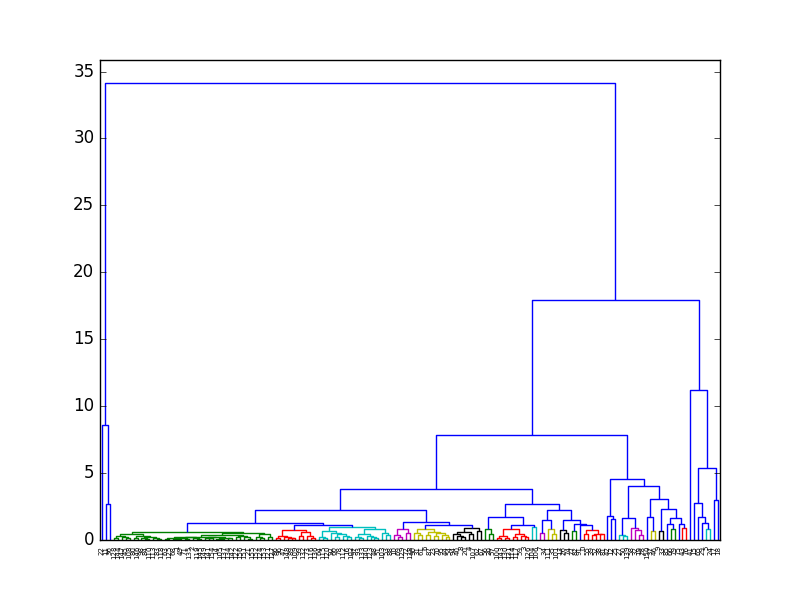
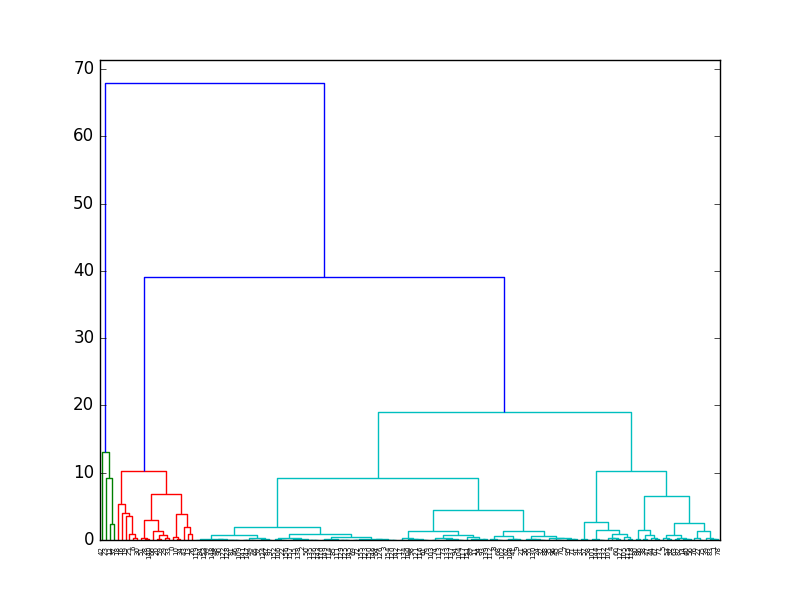
m4 finished. generating csv with cluster, #accidents and mean

diff --git a/Milestone4/src/pca_hierarchical.py b/Milestone4/src/pca_hierarchical.py
@@ -38,8 +38,8 @@ plt.show()
 
 #Plot the zone where the number of clusters is higher
 fig, ax = plt.subplots()
-plt.xlim(-0.5, 1)
-plt.ylim(-0.5, 0.75)
+plt.xlim(-1.1, 0.5)
+plt.ylim(-0.7, 0.4)
 ax.grid(True)
 
 for i in range(len(X_pca)):
@@ -71,13 +71,50 @@ lines = open("out/inc2006features.csv").readlines()
 
 acc_per_zone = []
 
-for i in xrange(len(lines)):
+for i in range(len(lines)):
 	zone = clusters[i]
 	number_accidents = sum(map(int, lines[i].split(";")))
 	acc_per_zone.append((zone, number_accidents))
-	print number_accidents
 
-print
+cluster_1 = []
+cluster_2 = []
+cluster_3 = []
 
-#features = ['Alcance','Atropello','Vuelco','Tijera_camion','Salida','Rojo','Amarillo',
-			#'Negro','Blanco','Invierno','Verano','8am_15pm','15pm_20pm','20pm_3am']
+for result in acc_per_zone:
+	zone = result[0]
+	n_accidents = result[1]
+
+	if zone == 1:
+		cluster_1.append(n_accidents)
+	if zone == 2:
+		cluster_2.append(n_accidents)
+	if zone == 3:
+		cluster_3.append(n_accidents)
+
+mean_cluster_1 = sum(cluster_1)/len(cluster_1)
+mean_cluster_2 = sum(cluster_2)/len(cluster_2)
+mean_cluster_3 = sum(cluster_3)/len(cluster_3)
+
+fout_name = "out/inc2006acc_zone.csv"
+headers = "Cluster;Number of accidents;Mean\n"
+
+with open(fout_name, 'w') as f_out:
+	f_out.write(headers)
+
+	for index, number in enumerate(cluster_1):
+		if index == 0:
+			f_out.write('1;{};{}\n'.format(number, mean_cluster_1))
+		else:
+			f_out.write('1;{}\n'.format(number))
+
+	for index, number in enumerate(cluster_2):
+		if index == 0:
+			f_out.write('2;{};{}\n'.format(number, mean_cluster_2))
+		else:
+			f_out.write('2;{}\n'.format(number))
+
+	for index, number in enumerate(cluster_3):
+		if index == 0:
+			f_out.write('3;{};{}\n'.format(number, mean_cluster_3))
+		else:
+			f_out.write('3;{}\n'.format(number))

diff --git a/Milestone4/README.md b/Milestone4/README.md
@@ -10,10 +10,29 @@ This milestone is devoted to calculate the zone each accident belongs to and a s
 * Number of accidents from 15.00pm to 20.00pm
 * Number of accidents from 20.00pm to 3.00am
 
-Then develop and execute the [PCA](https://en.wikipedia.org/wiki/Principal_component_analysis) algorithm.
+Once those feaures were calculated, it was developed and executed the [PCA](https://en.wikipedia.org/wiki/Principal_component_analysis) algorithm. The unnormalized result was the following
 
-![PCA](out/pca.png)
+![PCA](out/pca_unnormalized.png)
 
-And the  [hierarchical](https://en.wikipedia.org/wiki/Hierarchical_clustering) algorithm.
+Then it was decided to normalize the data obtaining the following result.
+
+![PCA](out/pca_normalized.png)
+
+And the  [hierarchical](https://en.wikipedia.org/wiki/Hierarchical_clustering) algorithm. The resulting dendrogram was the following.
 
 ![hierarchical](out/hierarchical.png)
+
+Then, a [CSV](out/inc2006acc_zone.csv) was obtaned showing the id of the cluster, the sumatory of each of its accidents and the mean of them.
+
+Example of the CSV.
+
+|Cluster|Number of accidents|Mean|
+|-------|-------------------|----|
+|1|762|806|
+|1|1069| |
+|1|762| |
+|1|632| |
+|2|216|196|
+|2|244| |
+|2|203| |
+|...|...|...|
